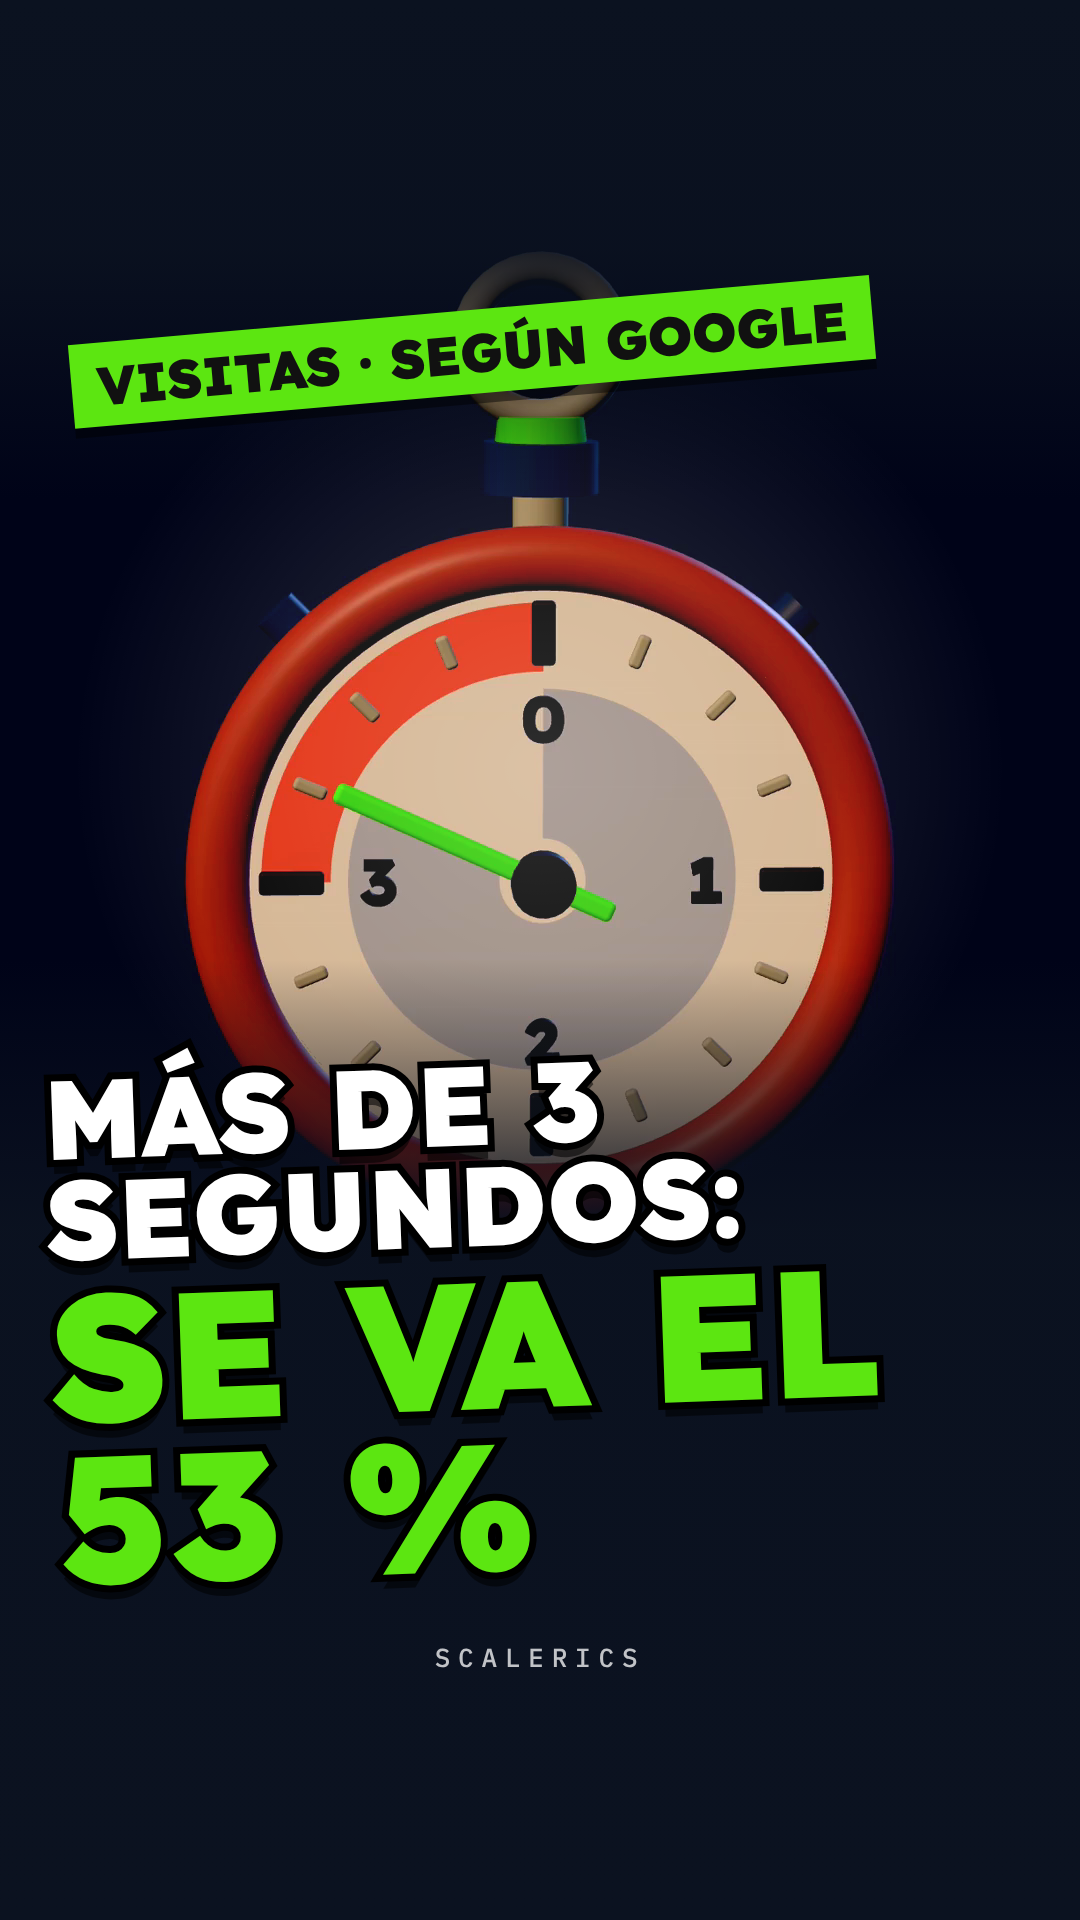
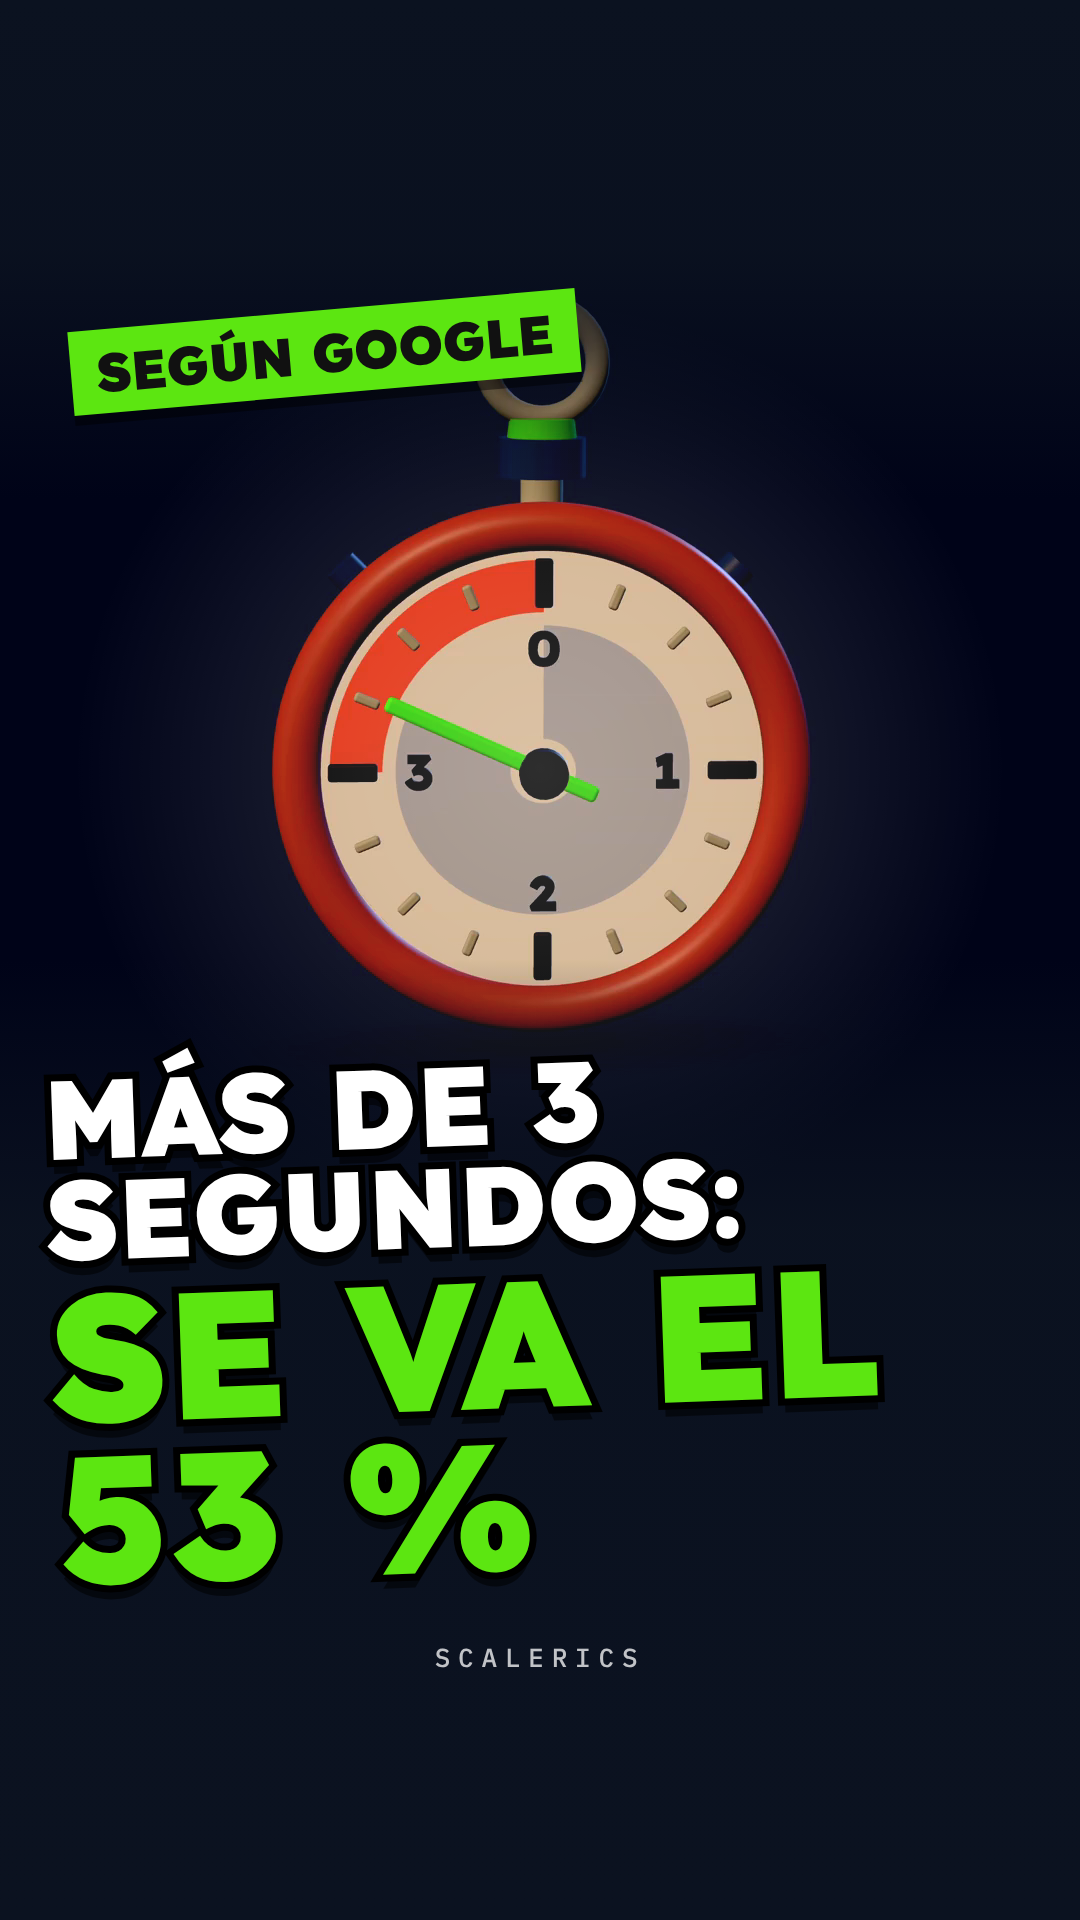
wip: tres-segundos (ronda 3 corregida, portada nueva)
Claude-Session: https://claude.ai/code/session_01Fn7kXDyJzGTkBoCfNzJ8AC

Changed region(s): [[0.0611, 0.125, 0.825, 0.625], [0.3667, 0.5938, 0.3972, 0.625]]

diff --git a/reels/tres-segundos/assets/tres.js b/reels/tres-segundos/assets/tres.js
@@ -496,7 +496,7 @@ async function dibujarPantallas() {
   // cartel de la pizzería
   {
     const c = document.createElement("canvas"); c.width = 1024; c.height = 180; const x = c.getContext("2d");
-    x.fillStyle = "#0b1220"; x.fillRect(0, 0, 1024, 180); x.fillStyle = "#ffffff"; x.font = F(800, 124); x.textAlign = "center"; x.fillText("PIZZERÍA", 512, 135);
+    x.fillStyle = "#5ce611"; x.fillRect(0, 0, 1024, 180); x.fillStyle = "#0b1220"; x.font = F(800, 124); x.textAlign = "center"; x.fillText("PIZZERÍA", 512, 135);
     const t = new THREE.CanvasTexture(c); t.colorSpace = THREE.SRGBColorSpace; cartelMat.map = t; cartelMat.emissiveMap = t; cartelMat.needsUpdate = true;
   }
 }
@@ -526,13 +526,13 @@ const CAM = [
   [S["s06-avisa"] - 0.005, -16, 2, 5.0, PAR.x + 0.75, 0.52, PAR.z + 1.25, "c"],
   [S["s06-avisa"], -16, 8, 12.4, PIZ.x - 0.1, 0.25, PIZ.z + 0.4],
   [S["s06-avisa"] + 0.9, -13, 9, 12.8, PIZ.x - 0.1, 0.25, PIZ.z + 0.4],
-  [S["s07-venta"] - 0.5, -10, 10, 13.0, PIZ.x - 0.1, 0.25, PIZ.z + 0.4],
+  [S["s07-venta"] - 0.31, -10, 10, 13.0, PIZ.x - 0.1, 0.25, PIZ.z + 0.4],
   [S["s07-venta"] - 0.08, -3, 28, 6.3, PIZ.x - 1.05, -0.26, PIZ.z + 0.55],
   // corte limpio en "Pasa": de la caja al celular acostado
   [S["s08-pesadas"] - 0.005, 2, 29, 6.0, PIZ.x - 1.05, -0.28, PIZ.z + 0.55, "c"],
-  [S["s08-pesadas"], 2, 57, 8.6, EST2.x, -0.6, EST2.z + 0.2],
-  [W[61], -2, 58, 8.4, EST2.x, -0.62, EST2.z + 0.2],
-  [S["s09-rapida"] - 0.05, -3, 58, 8.4, EST2.x, -0.64, EST2.z + 0.2, "e"],
+  [S["s08-pesadas"], 2, 57, 8.6, EST2.x, -0.5, EST2.z + 0.2],
+  [W[61], -2, 58, 8.4, EST2.x, -0.52, EST2.z + 0.2],
+  [S["s09-rapida"] - 0.05, -3, 58, 8.4, EST2.x, -0.54, EST2.z + 0.2, "e"],
   [S["s09-rapida"] + 0.42, -5, 10, 9.2, EST2.x, 0.62, EST2.z + 0.2],
   [W[67], 6, 8, 8.8, EST2.x, 0.72, EST2.z + 0.1],
   // corte limpio en "Misma parada": del celular de s09 a la parada (antes el viaje cortaba a Nico y al árbol)
@@ -881,12 +881,12 @@ function renderAt(t) {
     parada.visible = s > 0.002; if (parada.visible) parada.scale.set(1, Math.max(0.001, s), 1);
     // globito de hambre (s03, y vuelve en s10)
     const g1 = en(t, W[29] - 0.1, S5) ? lerp(0.6, 1, bk(sg(t, W[29] - 0.1, W[29] + 0.2))) : 0;
-    const g2 = en(t, S10 + 0.3, W[73] - 0.15) ? lerp(0.6, 1, bk(sg(t, S10 + 0.3, S10 + 0.55))) : 0; // en "abre" lo reemplaza el cronómetro
+    const g2 = en(t, S10 + 0.3, W[73] - 0.02) ? lerp(0.6, 1, bk(sg(t, S10 + 0.3, S10 + 0.55))) * (1 - eio(sg(t, W[73] - 0.2, W[73] - 0.02))) : 0; // en "abre" lo reemplaza el cronómetro
     const gs = LLENO ? 0 : Math.max(g1, g2);
     ocultar(globo, gs); globo.position.set(PAR.x - 0.1, 1.45 + Math.sin(t * 2) * 0.04, PAR.z + 1.35); globo.scale.multiplyScalar(0.82); globo.rotation.set(0, -0.2 + Math.sin(t * 1.1) * 0.08, 0);
     porcion.rotation.set(0, 0, Math.sin(t * 2.2) * 0.12);
     // segunda vez (s10): la porción da una vuelta entera y crece, contenta (no vuelve idéntica)
-    if (g2 > 0) { const v = eio(sg(t, S["s10-abre"] + 0.35, S["s10-abre"] + 0.95)); porcion.rotation.y = v * Math.PI * 2; porcion.scale.setScalar(0.5 * (1 + 0.22 * Math.sin(Math.PI * v))); } else porcion.scale.setScalar(0.5);
+    if (g2 > 0) { const v = sg(t, S["s10-abre"] + 0.35, S["s10-abre"] + 0.95); porcion.rotation.z = Math.sin(v * Math.PI * 3) * 0.3; porcion.scale.setScalar(0.5 * (1 + 0.14 * Math.sin(Math.PI * eio(v)))); } else porcion.scale.setScalar(0.5);
   }
 
   // ---------------- la cuadra (solo en los viajes entre lugares) ----------------
@@ -932,7 +932,7 @@ function renderAt(t) {
     vidrioMat.emissiveIntensity = lerp(0.9, 0.45, eio(sg(t, W[44], W[45] + 0.2)));
     // en el push-in a la caja el cartel se apaga (pasa por detrás del subtítulo: nada de texto sobre texto)
     // en el push-in a la caja las letras del cartel se funden en su chapa navy (pasan por detrás del subtítulo: nada de texto sobre texto)
-    { const k = eio(sg(t, S7 - 0.64, S7 - 0.4)); cartelMat.transparent = true; cartelMat.opacity = 1 - k; cartelMat.depthWrite = k < 0.5; } // las letras se funden en la chapa navy mientras cruzan el subtítulo (nada de texto sobre texto)
+    // el cartel queda siempre prendido: el push-in arranca recién cuando ya no hay subtítulo ("de que entró." termina en 15,58) y lo saca de cuadro antes de "Esa venta"
     // la caja: cae sobre el mostrador; en "antes" la tapa intenta abrir y se cierra; se pone gris
     const cae = sg(t, S7 - 0.05, S7 + 0.3);
     const ks = en(t, S7 - 0.05, S8 + 0.36) ? CAJA_S * lerp(0.55, 1, bk(sg(t, S7 - 0.05, S7 + 0.1))) : 0;

diff --git a/reels/tres-segundos/compositions/subtitulos.html b/reels/tres-segundos/compositions/subtitulos.html
@@ -3,7 +3,7 @@
     @font-face { font-family: "Lexend"; font-weight: 100 900; font-display: block; src: url("assets/fonts/Lexend-var.woff2") format("woff2"); }
     #root { position: absolute; inset: 0; width: 1080px; height: 1920px; pointer-events: none; }
     [data-composition-id="subtitulos"] .grupo { position: absolute; left: 50px; top: 200px; width: 980px; height: 260px; display: flex; align-items: center; justify-content: center; }
-    [data-composition-id="subtitulos"] p { margin: 0; text-align: center; font-family: "Lexend", sans-serif; font-weight: 700; font-size: 86px; line-height: 1.22; letter-spacing: -0.015em; color: #ffffff; text-shadow: 0 5px 0 rgba(3, 6, 12, 0.55); -webkit-text-stroke: 12px #0b1220; paint-order: stroke fill; }
+    [data-composition-id="subtitulos"] p { margin: 0; text-align: center; font-family: "Lexend", sans-serif; font-weight: 700; font-size: 86px; line-height: 1.22; letter-spacing: -0.015em; color: #ffffff; text-shadow: 0 5px 0 rgba(3, 6, 12, 0.55), 0 0 22px rgba(11, 18, 32, 0.85); -webkit-text-stroke: 12px #0b1220; paint-order: stroke fill; }
     [data-composition-id="subtitulos"] .w { display: inline-block; position: relative; opacity: 0; }
     [data-composition-id="subtitulos"] .largo p { font-size: 74px; } /* que "Pasa con páginas viejas" entre en un renglón */
     [data-composition-id="subtitulos"] .w em { font-style: normal; position: relative; }
@@ -28,7 +28,7 @@
     <div id="sub-g10" class="grupo clip" data-start="12.22" data-duration="0.62" data-track-index="0"><p><span class="w" data-t="0"><em>Se</em></span> <span class="w ac" data-t="0.24"><b class="caja"><i class="c1"></i><i class="c2"></i><i class="c3"></i><i class="c4"></i></b><em>cansa</em></span></p></div>
     <div id="sub-g11" class="grupo clip" data-start="12.84" data-duration="1.12" data-track-index="0"><p><span class="w" data-t="0.08"><em>y</em></span> <span class="w" data-t="0.18"><em>elige</em></span> <span class="w" data-t="0.48"><em>otro.</em></span></p></div>
     <div id="sub-g12" class="grupo clip" data-start="14.04" data-duration="0.84" data-track-index="0"><p><span class="w" data-t="0"><em>Y</em></span> <span class="w ac" data-t="0.06"><b class="caja"><i class="c1"></i><i class="c2"></i><i class="c3"></i><i class="c4"></i></b><em>nunca</em></span> <span class="w" data-t="0.34"><em>te</em></span> <span class="w" data-t="0.5"><em>enterás</em></span></p></div>
-    <div id="sub-g13" class="grupo clip" data-start="14.88" data-duration="0.91" data-track-index="0"><p><span class="w" data-t="0.08"><em>de</em></span> <span class="w" data-t="0.2"><em>que</em></span> <span class="w" data-t="0.38"><em>entró.</em></span></p></div>
+    <div id="sub-g13" class="grupo clip" data-start="14.88" data-duration="0.7" data-track-index="0"><p><span class="w" data-t="0.08"><em>de</em></span> <span class="w" data-t="0.2"><em>que</em></span> <span class="w" data-t="0.38"><em>entró.</em></span></p></div>
     <div id="sub-g14" class="grupo clip" data-start="15.87" data-duration="0.66" data-track-index="0"><p><span class="w" data-t="0"><em>Esa</em></span> <span class="w" data-t="0.16"><em>venta</em></span> <span class="w" data-t="0.46"><em>se</em></span> <span class="w" data-t="0.6"><em>fue</em></span></p></div>
     <div id="sub-g15" class="grupo clip largo" data-start="16.53" data-duration="1.44" data-track-index="0"><p><span class="w" data-t="0.08"><em>antes</em></span> <span class="w" data-t="0.38"><em>de</em></span> <span class="w" data-t="0.46"><em>mostrar</em></span> <span class="w ac" data-t="0.82"><b class="caja"><i class="c1"></i><i class="c2"></i><i class="c3"></i><i class="c4"></i></b><em>nada.</em></span></p></div>
     <div id="sub-g16" class="grupo clip largo" data-start="18.05" data-duration="0.98" data-track-index="0"><p><span class="w" data-t="0"><em>Pasa</em></span> <span class="w" data-t="0.2"><em>con</em></span> <span class="w" data-t="0.36"><em>páginas</em></span> <span class="w" data-t="0.78"><em>viejas</em></span></p></div>
@@ -59,7 +59,7 @@
       ["sub-g10", 12.22, 0.62],
       ["sub-g11", 12.84, 1.12],
       ["sub-g12", 14.04, 0.84],
-      ["sub-g13", 14.88, 0.91],
+      ["sub-g13", 14.88, 0.7],
       ["sub-g14", 15.87, 0.66],
       ["sub-g15", 16.53, 1.44],
       ["sub-g16", 18.05, 0.98],

diff --git a/reels/tres-segundos/index.html b/reels/tres-segundos/index.html
@@ -59,11 +59,11 @@
       <audio id="sfx-15" src="assets/sfx/whoosh-short.mp3" data-start="4.18" data-duration="0.56" data-track-index="55" data-volume="0.15"></audio>
       <audio id="sfx-16" src="assets/sfx/whoosh-cine.mp3" data-start="4.86" data-duration="1.53" data-track-index="56" data-volume="0.112"></audio>
       <audio id="sfx-17" src="assets/sfx/whoosh-short.mp3" data-start="5.71" data-duration="0.56" data-track-index="57" data-volume="0.12"></audio>
-      <audio id="sfx-18" src="assets/sfx/pop.mp3" data-start="6.08" data-duration="0.71" data-track-index="58" data-volume="0.3"></audio>
+      <audio id="sfx-18" src="assets/sfx/pop.mp3" data-start="6.3" data-duration="0.71" data-track-index="58" data-volume="0.3"></audio>
       <audio id="sfx-19" src="assets/sfx/tecleo.mp3" data-start="6.48" data-duration="0.64" data-track-index="59" data-volume="0.5"></audio>
       <audio id="sfx-20" src="assets/sfx/pop.mp3" data-start="7.61" data-duration="0.71" data-track-index="60" data-volume="0.32"></audio>
       <audio id="sfx-21" src="assets/sfx/whoosh-c2.mp3" data-start="7.96" data-duration="0.88" data-track-index="61" data-volume="0.1"></audio>
-      <audio id="sfx-22" src="assets/sfx/pop.mp3" data-start="8.89" data-duration="0.71" data-track-index="62" data-volume="0.18"></audio>
+      <audio id="sfx-22" src="assets/sfx/pop.mp3" data-start="8.65" data-duration="0.71" data-track-index="62" data-volume="0.18"></audio>
       <audio id="sfx-23" src="assets/sfx/tic-real.mp3" data-start="9.58" data-duration="0.28" data-track-index="63" data-volume="0.5"></audio>
       <audio id="sfx-24" src="assets/sfx/key-c.mp3" data-start="9.6" data-duration="0.42" data-track-index="40" data-volume="0.35"></audio>
       <audio id="sfx-25" src="assets/sfx/tac-real.mp3" data-start="10.48" data-duration="0.28" data-track-index="41" data-volume="0.5"></audio>
@@ -78,7 +78,7 @@
       <audio id="sfx-34" src="assets/sfx/whoosh-cine.mp3" data-start="13.4" data-duration="1.53" data-track-index="50" data-volume="0.1"></audio>
       <audio id="sfx-35" src="assets/sfx/whoosh-short.mp3" data-start="13.94" data-duration="0.56" data-track-index="51" data-volume="0.1"></audio>
       <audio id="sfx-36" src="assets/sfx/click-soft.mp3" data-start="14.7" data-duration="0.36" data-track-index="52" data-volume="0.3"></audio>
-      <audio id="sfx-37" src="assets/sfx/whoosh-short.mp3" data-start="15.72" data-duration="0.56" data-track-index="53" data-volume="0.12"></audio>
+      <audio id="sfx-37" src="assets/sfx/whoosh-short.mp3" data-start="15.57" data-duration="0.56" data-track-index="53" data-volume="0.12"></audio>
       <audio id="sfx-38" src="assets/sfx/burbuja.mp3" data-start="15.87" data-duration="0.25" data-track-index="54" data-volume="0.13"></audio>
       <audio id="sfx-39" src="assets/sfx/click.mp3" data-start="16.63" data-duration="0.36" data-track-index="55" data-volume="0.4"></audio>
       <audio id="sfx-40" src="assets/sfx/papel-c.mp3" data-start="17.05" data-duration="0.88" data-track-index="56" data-volume="0.6"></audio>

diff --git a/reels/tres-segundos/compositions/s01-gancho.html b/reels/tres-segundos/compositions/s01-gancho.html
@@ -26,7 +26,7 @@
 
     [data-composition-id="s01-gancho"] .a { position: absolute; left: 0; right: 0; top: 132px; text-align: center; font: 800 104px/1.06 "Lexend", sans-serif; color: #fff; letter-spacing: -0.035em; text-shadow: 0 6px 0 rgba(3,6,12,0.55); font-size: 100px; }
     [data-composition-id="s01-gancho"] .b { position: absolute; left: 0; right: 0; top: 252px; text-align: center; font: 800 104px/1.06 "Lexend", sans-serif; color: #fff; letter-spacing: -0.035em; text-shadow: 0 6px 0 rgba(3,6,12,0.55); font-size: 70px; white-space: nowrap; }
-    [data-composition-id="s01-gancho"] .v { display: inline-block; font-size: 114px; font-weight: 900; color: #5ce611; letter-spacing: -0.04em; margin-left: 28px; transform-origin: 0% 60%; }
+    [data-composition-id="s01-gancho"] .v { display: inline-block; font-size: 114px; font-weight: 900; color: #5ce611; letter-spacing: -0.04em; margin-left: 28px; transform-origin: 0% 60%; } [data-composition-id="s01-gancho"] .v i { font-style: normal; color: #fff; }
     [data-composition-id="s01-gancho"] .c { position: absolute; left: 0; right: 0; top: 420px; text-align: center; font: 800 104px/1.06 "Lexend", sans-serif; color: #fff; letter-spacing: -0.035em; text-shadow: 0 6px 0 rgba(3,6,12,0.55); font-size: 86px; white-space: nowrap; }
     [data-composition-id="s01-gancho"] .c em { position: relative; display: inline-block; font-style: normal; padding: 0 14px; margin-left: 6px; border: 6px solid #5ce611; background: rgba(92,230,17,0.16); }
   </style>
@@ -34,7 +34,7 @@
     <div id="s01-gancho-esc" class="esc clip" data-start="0" data-duration="2.8" data-track-index="0">
 
       <div class="a">Si tu página tarda</div>
-      <div class="b">más de<span class="v">3 segundos</span>:</div>
+      <div class="b">más de<span class="v">3 segundos<i>:</i></span></div>
       <div class="c">se va <em>más de la mitad</em></div>
     </div>
   </div>

diff --git a/reels/tres-segundos/compositions/s02-mitad.html b/reels/tres-segundos/compositions/s02-mitad.html
@@ -25,12 +25,12 @@
     [data-composition-id="s02-mitad"] .sello { position: absolute; padding: 14px 34px 18px; border: 9px solid #c7655b; border-radius: 22px; font: 900 92px/1 "Lexend", sans-serif; letter-spacing: 0.02em; color: #c7655b; background: rgba(11,18,32,0.78); opacity: 0; white-space: nowrap; }
 
     [data-composition-id="s02-mitad"] .pill.f { font-size: 44px; }
-    [data-composition-id="s02-mitad"] .dato { position: absolute; left: 0; right: 0; top: 806px; text-align: center; font: 700 46px/1.15 "Lexend", sans-serif; color: #efeee5; letter-spacing: -0.01em; text-shadow: 0 4px 0 rgba(3,6,12,0.6); opacity: 0; }
+    [data-composition-id="s02-mitad"] .dato { position: absolute; left: 0; right: 0; top: 800px; text-align: center; font: 700 58px/1.15 "Lexend", sans-serif; color: #efeee5; letter-spacing: -0.01em; text-shadow: 0 4px 0 rgba(3,6,12,0.6); opacity: 0; }
   </style>
   <div id="root" data-composition-id="s02-mitad" data-width="1080" data-height="1920" data-duration="3.06">
     <div id="s02-mitad-esc" class="esc clip" data-start="0" data-duration="3.06" data-track-index="0">
 
-      <div class="dato">de las visitas desde el celular se va<br>si tarda más de 3 s</div>
+      <div class="dato">si tarda más de 3 s</div>
       <div class="pill f n2" style="left:540px;top:1645px">Fuente: Google</div>
     </div>
   </div>

diff --git a/reels/tres-segundos/compositions/s13-llamada.html b/reels/tres-segundos/compositions/s13-llamada.html
@@ -64,7 +64,7 @@
       const finTodo = () => tl.to(q(".esc"), { opacity: 0, duration: 0.2, ease: "power2.in" }, DUR - 0.22);
 
 
-      tl.set(q(".t1"), { opacity: 0 }, 0); tl.set(q(".t1"), { opacity: 1 }, 0.04); tl.fromTo(q(".t1"), { scale: 0.85, transformOrigin: "50% 50%" }, { scale: 1, duration: 0.2, ease: "back.out(1.7)", immediateRender: false }, 0.04);
+      tl.set(q(".t1"), { opacity: 1 }, 0); tl.fromTo(q(".t1"), { scale: 0.85, transformOrigin: "50% 50%" }, { scale: 1, duration: 0.2, ease: "back.out(1.7)", immediateRender: true }, 0);
       tl.set(q(".t2w"), { opacity: 0 }, 0); tl.set(q(".t2w"), { opacity: 1 }, 0.18); tl.fromTo(q(".t2w"), { y: 40 }, { y: 0, duration: 0.24, ease: "power3.out", immediateRender: false }, 0.18);
       tl.set(q(".t3w"), { opacity: 0 }, 0); tl.set(q(".t3w"), { opacity: 1 }, 0.55); tl.fromTo(q(".t3w"), { scale: 0.8, transformOrigin: "50% 50%" }, { scale: 1, duration: 0.35, ease: "back.out(1.7)", immediateRender: false }, 0.55);
       tl.fromTo(q(".t3"), { scale: 1 }, { scale: 1.07, duration: 0.3, ease: "sine.inOut", yoyo: true, repeat: 1, immediateRender: false }, 1.45);

diff --git a/reels/tres-segundos/compositions/s09-rapida.html b/reels/tres-segundos/compositions/s09-rapida.html
@@ -27,7 +27,7 @@
   </style>
   <div id="root" data-composition-id="s09-rapida" data-width="1080" data-height="1920" data-duration="3.1">
     <div id="s09-rapida-esc" class="esc clip" data-start="0" data-duration="3.1" data-track-index="0">
-<div class="pill lleno s n1" style="left:540px;top:1800px">Scalerics</div>
+<div class="pill lleno s n1" style="left:540px;top:1832px">Scalerics</div>
     </div>
   </div>
   <script>
@@ -56,7 +56,7 @@
       const finTodo = () => tl.to(q(".esc"), { opacity: 0, duration: 0.2, ease: "power2.in" }, DUR - 0.22);
 
 
-      nota(1, 0.9);
+      nota(1, 0.12);
       fuera(".n1", 2.88, 0.18);
       window.__timelines = window.__timelines || {};
       window.__timelines[ID] = tl;

diff --git a/reels/tres-segundos/compositions/s06-avisa.html b/reels/tres-segundos/compositions/s06-avisa.html
@@ -28,7 +28,7 @@
   <div id="root" data-composition-id="s06-avisa" data-width="1080" data-height="1920" data-duration="1.83">
     <div id="s06-avisa-esc" class="esc clip" data-start="0" data-duration="1.83" data-track-index="0">
 
-      <svg class="full" viewBox="0 0 1080 1920" aria-hidden="true"><path class="lead  l1" d="M760 1560 L760 1170"/><circle class="dot  d1" cx="760" cy="1170" r="12"/></svg>
+      <svg class="full" viewBox="0 0 1080 1920" aria-hidden="true"><path class="lead l1" d="M760 1170 L760 1560"/><circle class="dot d1" cx="760" cy="1170" r="12"/></svg>
       <div class="pill grande avisos n1" style="left:760px;top:1610px">0 avisos</div>
     </div>
   </div>

diff --git a/reels/tres-segundos/SPEC.md b/reels/tres-segundos/SPEC.md
@@ -340,3 +340,9 @@ en "enterás". Mezcla reconstruida desde el index (ebur128 momentáneo, tramos d
   a pantalla completa el celular un 5 % más lejos y sin la parada detrás; porción que gira y crece en la 2.ª parada;
   subtítulos largos a 74 px en un renglón; sin subtítulo "Agendá una" (queda la pregunta); pulso + click en scalerics.com.
 - Portada: portada.png desde renders/portada-fondo-limpio.png (ver nota en portada.json).
+
+## Ronda 3 (final)
+- Cartel "PIZZERÍA" verde de marca con letras navy, siempre prendido: el subtítulo "de que entró." corta en 15,58
+  (reel.finSub) y el push-in a la caja (15,56-15,79) lo saca de cuadro antes de "Esa venta se fue".
+- Rótulo del 53 % solo "si tarda más de 3 s" (58 px); subtítulos con halo navy; "Scalerics" de s09 en "Scalerics" y más abajo;
+  la burbuja de la 2.ª parada se mece y se achica mientras entra el cronómetro; portada con el cronómetro arriba del texto.
